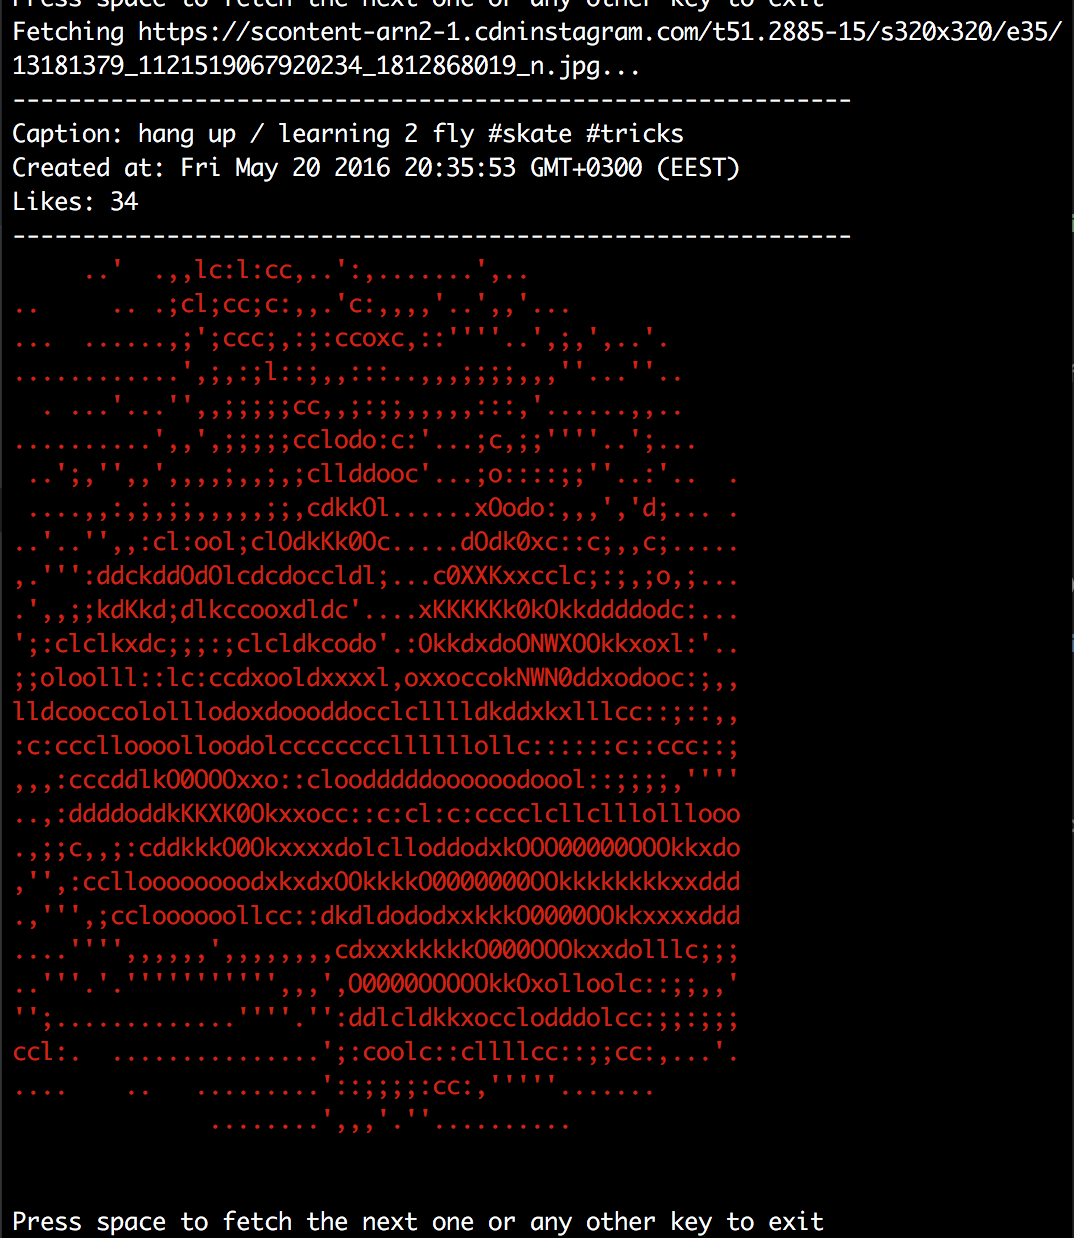
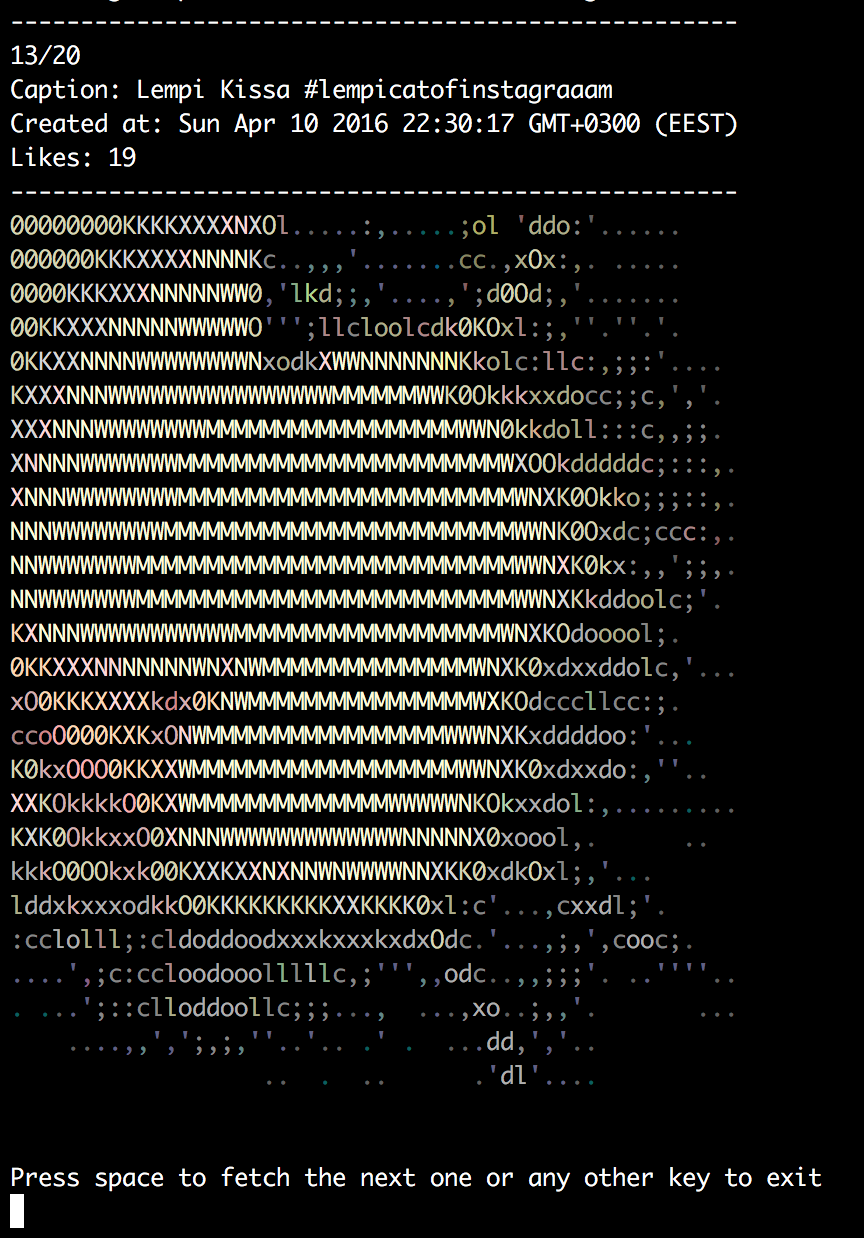
Added colors, added support for highres images, added some initial tests

diff --git a/lib/ascii-shot.js b/lib/ascii-shot.js
@@ -8,10 +8,12 @@ const cursor = ansi(process.stdout);
  * Takes a HTML-formatted text and parses the containing ASCII image to text.
  * Also writes the attached metadata to console.
  * @param {String} text - HTML body
- * @param {object} image - Object containing related metadata.
+ * @param {Object} image - Object containing related metadata.
+ * @param {Object} counter  - Counter that contains the amount of images and current image number
+ * @param {Object} flags - flags passed to the cli
  * @returns {Promise.resolve} - Resolved promise for chaining.
  */
-function writeInstagramShot(text, image) {
+function writeInstagramShot(text, image, counter, flags) {
   const $ = cheerio.load(text);
   const imageParts = $("font").children();
 
@@ -21,16 +23,36 @@ function writeInstagramShot(text, image) {
     caption,
   } = image;
 
-  cursor.write(`${"-".repeat(52)}${EOL}`);
+  const {
+    amount,
+    count,
+  } = counter;
+
+  const {
+    noColor,
+    highRes,
+  } = flags;
+
+  const repeatAmount = highRes ? 104 : 52;
+
+  cursor.write(`${"-".repeat(repeatAmount)}${EOL}`);
+  cursor.write(`${count}/${amount}${EOL}`);
   cursor.write(`Caption: ${caption}${EOL}`);
   cursor.write(`Created at: ${date}${EOL}`);
   cursor.write(`Likes: ${likes}${EOL}`);
-  cursor.write(`${"-".repeat(52)}${EOL}`);
+  cursor.write(`${"-".repeat(repeatAmount)}${EOL}`);
 
   imageParts.each((index, elem) => {
     if (elem.name === "span") {
       const $elem = $(elem);
-      cursor.red().write($elem.text()).reset();
+      const elemText = $elem.text();
+
+      if (noColor) {
+        cursor.write(elemText).reset();
+      } else {
+        const [, color] = $elem.attr("style").split(":");
+        cursor.hex(color).write(elemText).reset();
+      }
     }
 
     if (elem.name === "br") {
@@ -44,9 +66,10 @@ function writeInstagramShot(text, image) {
 /**
  * Formats the itemsArray to caption/likes/imageurl format
  * @param {Array} itemsArray - Array of instagram items
+ * @param {Object} flags - flags passed to the cli
  * @returns {Array} - Array of image urls
  */
-const formatItemsArray = (itemsArray) => (
+const formatItemsArray = (itemsArray, flags) => (
   itemsArray.map((item) => {
     const {
       images,
@@ -62,7 +85,7 @@ const formatItemsArray = (itemsArray) => (
 
     let url = null;
 
-    if (lowResolution) {
+    if (lowResolution && !flags.highRes) {
       url = lowResolution.url.split("?")[0];
     } else if (standardResolution) {
       url = standardResolution.url.split("?")[0];
@@ -80,13 +103,15 @@ const formatItemsArray = (itemsArray) => (
 /**
  * Writes an image to the console
  * @param {String} imageUrl - Url of the image to fetch
- * @returns {Promise} - Res
+ * @param {Object} counter  - Counter that contains the amount of images and current image number
+ * @param {Object} flags - flags passed to the cli
+ * @returns {Promise} - Resolves when image is written
  */
-const writeImageToConsole = (image) => {
+const writeImageToConsole = (image, counter, flags) => {
   console.log(`Fetching ${image.url}...`);
   return fetch(`${image.url}.html`)
     .then((res) => res.text())
-    .then((text) => writeInstagramShot(text, image))
+    .then((text) => writeInstagramShot(text, image, counter, flags))
     .catch((err) => {
       console.error("  Error: Ressor fetching/parsing images:");
       console.error(err.message);
@@ -96,8 +121,9 @@ const writeImageToConsole = (image) => {
 /**
  * Fetches the latest Instagram shot of the owner of the access_token
  * @param {String} token - access token
+ * @param {Object} flags - flags passed to the cli
  */
-const AsciiShot = (username) => {
+const AsciiShot = (username, flags) => (
   fetch(`https://instagram.com/${username}/media`)
   .then((res) => res.json())
   .then(json => {
@@ -109,10 +135,25 @@ const AsciiShot = (username) => {
 
     let isFetching = false;
 
-    const instagramShots = formatItemsArray(itemsArray);
+    const instagramShots = formatItemsArray(itemsArray, flags);
+    const amount = instagramShots.length;
+    const hasRawMode = process.stdin.setRawMode; // for tests
+    let count = 0;
 
+    /**
+     * Fetches the next image or ends the program
+     * @param {Buffer} data - Data from process.stdin
+     */
     const fetchNextOrDie = (data) => {
-      process.stdin.setRawMode(false);
+      if (hasRawMode) {
+        process.stdin.setRawMode(false);
+      }
+      count = count + 1;
+
+      const counter = {
+        amount,
+        count,
+      };
 
       if (isFetching) {
         return;
@@ -124,10 +165,12 @@ const AsciiShot = (username) => {
 
       isFetching = true;
 
-      writeImageToConsole(instagramShots.pop()).then(() => {
+      writeImageToConsole(instagramShots.pop(), counter, flags).then(() => {
         isFetching = false;
         if (instagramShots.length) {
-          process.stdin.setRawMode(true);
+          if (hasRawMode) {
+            process.stdin.setRawMode(true);
+          }
           process.stdin.resume();
           console.log("");
           console.log("");
@@ -145,7 +188,7 @@ const AsciiShot = (username) => {
   .catch((err) => {
     console.error(`  Error: Couldn't fetch images for username ${username}`);
     console.error(err.message);
-  });
-};
+  })
+);
 
 module.exports = AsciiShot;

diff --git a/test.js b/test.js
@@ -1,0 +1,18 @@
+import test from "ava";
+import execa from "execa";
+import fetchMock from "fetch-mock";
+import asciiShot from "./lib/ascii-shot";
+
+const fixtures = require("./fixtures/fixture.json");
+fetchMock.mock("https://instagram.com/petetnt/media", fixtures);
+
+test("should throw if no username is passed", async t => {
+  const { stderr } = await execa("./bin/ascii-shot", []);
+  t.is(stderr, "  Error: You must pass an username");
+});
+
+test.serial("should call the semi-public api when passed an username", async t => {
+  asciiShot("petetnt", { highRes: false, noColors: false }).then(() => {
+    t.truthy(fetchMock.called("https://instagram.com/petetnt/media"));
+  });
+});

diff --git a/.eslintrc.js b/.eslintrc.js
@@ -1,5 +1,7 @@
 module.exports = {
-  "extends": ["motley"],
+  "parser": "babel-eslint",
+  "plugins": ["ava"],
+  "extends": ["motley", "plugin:ava/recommended"],
   "rules": {
     "no-console": 0,
     "global-require": 0,

diff --git a/VERSIONS.md b/VERSIONS.md
@@ -1,7 +1,15 @@
-# 1.0.0
+# Versions
+
+## 1.1.0
+
+- Added colorized output #2
+- Added support for showing highres images #4
+- Added some initial tests
+
+## 1.0.0
 
 - Complete rewrite using the semi-public API `username/media`. Fixes #1.
 
-# 0.0.1 - 0.0.3
+## 0.0.1 - 0.0.3
 
 - Legacy version using authenticated API communication.

diff --git a/README.md b/README.md
@@ -17,6 +17,9 @@ npm install ascii-shot -g
 ```
   Usage
     $ ascii-shot <username>
+  
+  Options
+    --highres, -h Show highres images
 
   Examples
     $ ascii-shot petetnt
